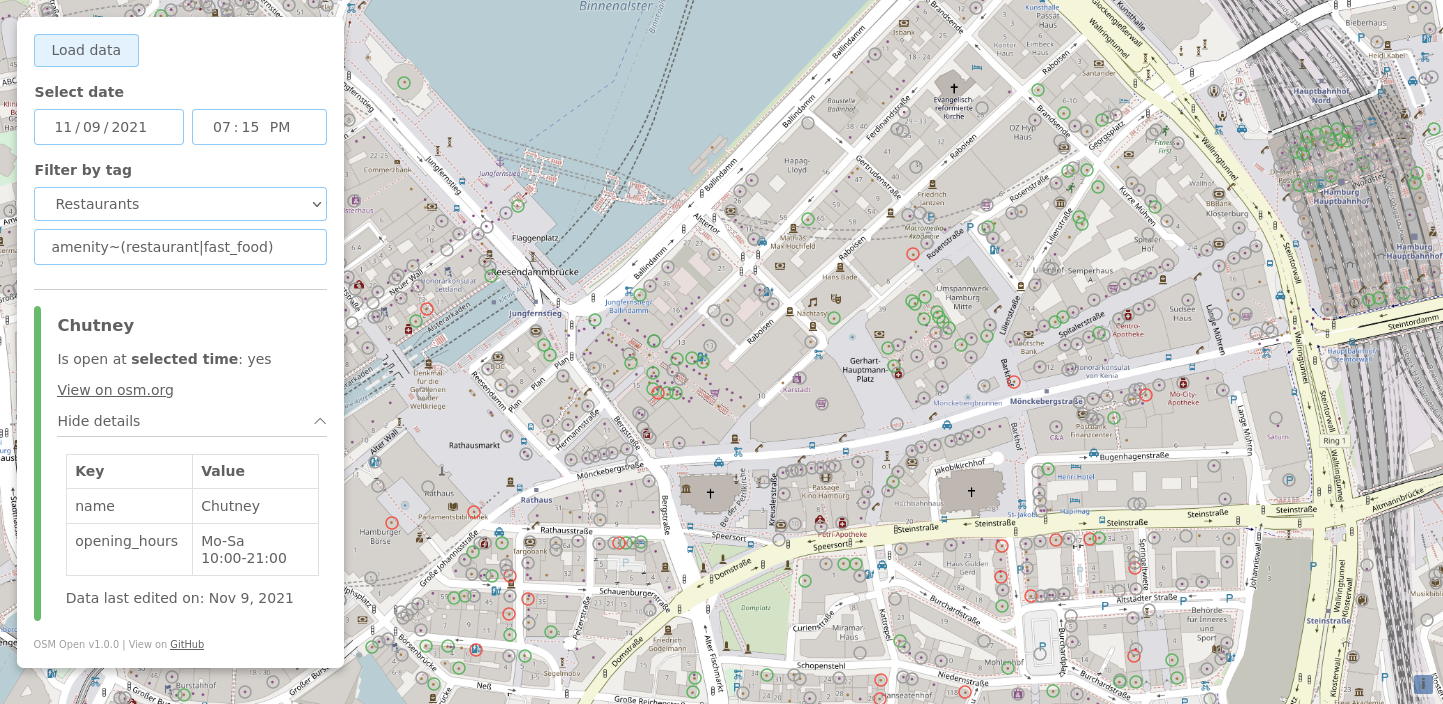
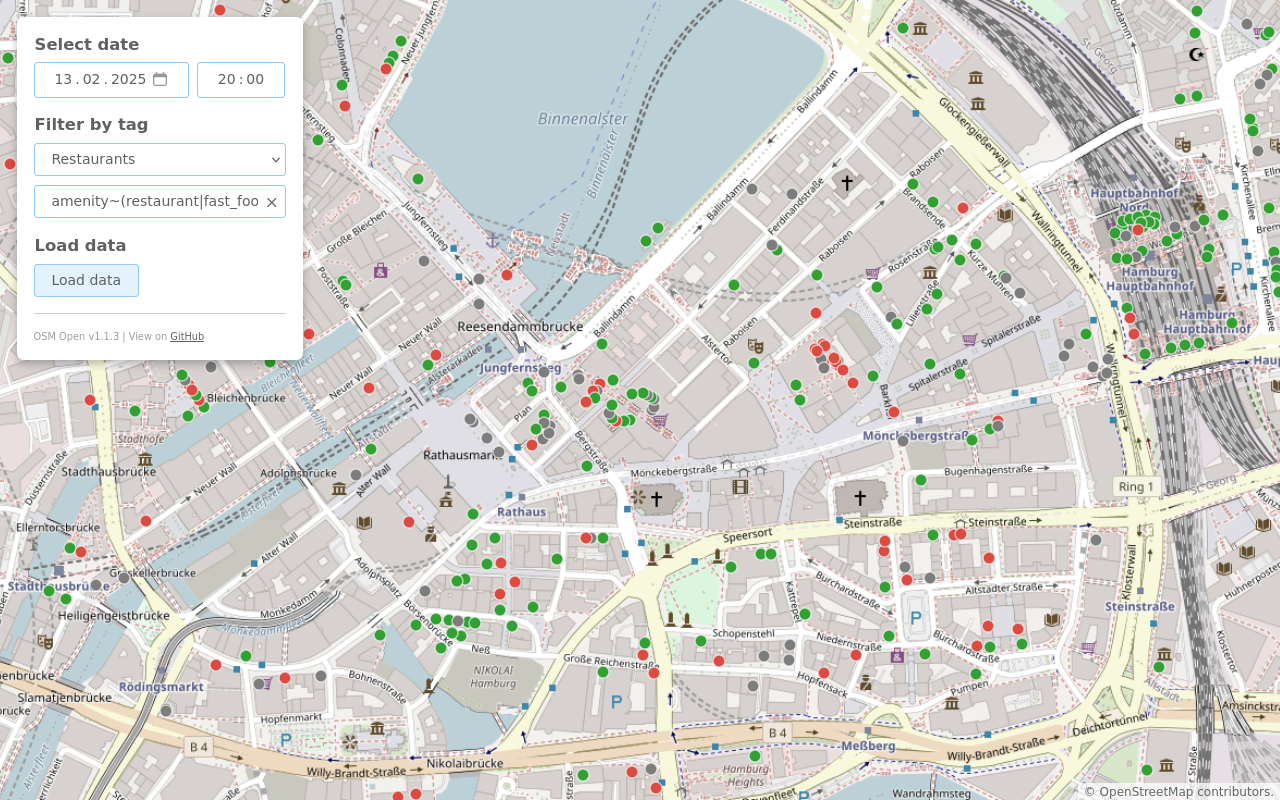
Better POI selection handling

diff --git a/client/src/app/map/poi-layer/poi-layer.component.ts b/client/src/app/map/poi-layer/poi-layer.component.ts
@@ -21,9 +21,9 @@ export class PoiLayerComponent extends Unsubscriber implements OnInit {
   public readonly layer: VectorLayer<VectorSource<Feature<Point>>>;
   public readonly source: VectorSource<Feature<Point>>;
 
-  public features: Feature<Point>[];
-  public selectedFeature: Feature<Point>;
-  public selectedDateTime: Date | undefined;
+  public features: Feature<Point>[] = [];
+  public selectedFeature: Feature<Point> | undefined = undefined;
+  public selectedDateTime: Date | undefined = undefined;
   public select: Select;
 
   private redTransparent = 'rgba(240,65,55,0.6)';
@@ -53,7 +53,6 @@ export class PoiLayerComponent extends Unsubscriber implements OnInit {
     });
     this.select.on('select', (event: SelectEvent) => {
       const selectedFeature = event.selected[0] as Feature<Point>;
-      this.selectedFeature = selectedFeature;
       this.poiService.selectPoi(selectedFeature);
     });
     this.layerService.addInteraction(this.select);
@@ -61,8 +60,8 @@ export class PoiLayerComponent extends Unsubscriber implements OnInit {
     this.unsubscribeLater(
       this.poiService.dataChanged.subscribe(newFeatures => {
         this.features = newFeatures;
-        console.log('Changed');
         this.updateFeatures();
+        this.poiService.deselectPoi();
       }),
       this.dateTimeSelectionService.dateTimeSelected.subscribe((selectedDateTime: Date | undefined) => {
         this.selectedDateTime = selectedDateTime;
@@ -70,6 +69,9 @@ export class PoiLayerComponent extends Unsubscriber implements OnInit {
         if (this.selectedFeature) {
           this.poiService.selectPoi(this.selectedFeature);
         }
+      }),
+      this.poiService.poiSelected.subscribe((selectedPoiFeature: Feature<Point> | undefined) => {
+        this.selectedFeature = selectedPoiFeature;
       })
     );
   }
@@ -112,48 +114,6 @@ export class PoiLayerComponent extends Unsubscriber implements OnInit {
         }
       }
     }
-
-    // if (selected) {
-    //   // This feature is selected
-    //   if (isOpen === undefined) {
-    //     strokeColor = this.gray;
-    //     fillColor = this.graySemiTransparent;
-    //   } else {
-    //     if (isOpen) {
-    //       strokeColor = this.green;
-    //       fillColor = this.greenSemiTransparent;
-    //     } else {
-    //       strokeColor = this.red;
-    //       fillColor = this.redSemiTransparent;
-    //     }
-    //   }
-    // } else if (this.selectedFeature != null) {
-    //   // A different feature is currently selected
-    //   fillColor = 'transparent';
-    //   if (isOpen === undefined) {
-    //     strokeColor = this.graySemiTransparent;
-    //   } else {
-    //     if (isOpen) {
-    //       strokeColor = this.greenSemiTransparent;
-    //     } else {
-    //       strokeColor = this.redSemiTransparent;
-    //     }
-    //   }
-    // } else {
-    //   // No feature is selected
-    //   if (isOpen === undefined) {
-    //     strokeColor = this.gray;
-    //     fillColor = this.grayTransparent;
-    //   } else {
-    //     if (isOpen) {
-    //       strokeColor = this.green;
-    //       fillColor = this.greenTransparent;
-    //     } else {
-    //       strokeColor = this.red;
-    //       fillColor = this.redTransparent;
-    //     }
-    //   }
-    // }
 
     const fill = new Fill({
       color: fillColor,

diff --git a/client/src/app/map/poi.service.ts b/client/src/app/map/poi.service.ts
@@ -78,4 +78,8 @@ export class PoiService {
   selectPoi(feature: Feature<Point> | undefined): void {
     this.$poiSelected.next(feature);
   }
+
+  deselectPoi(): void {
+    this.$poiSelected.next(undefined);
+  }
 }
